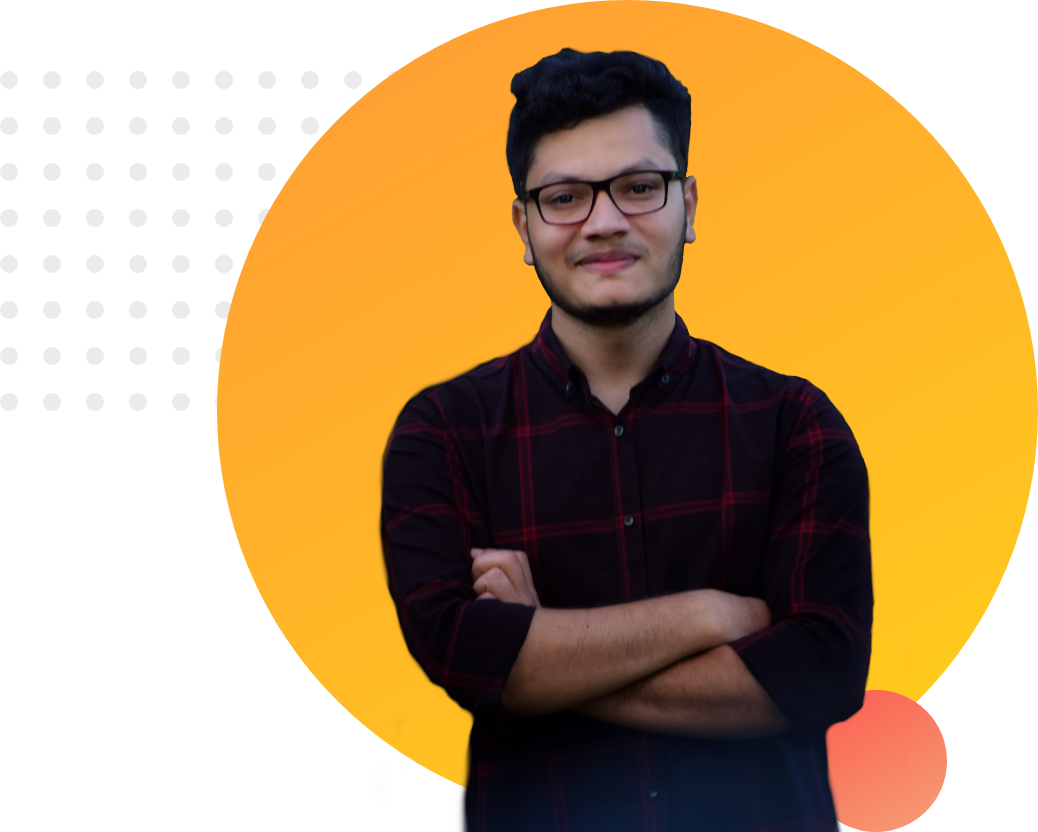
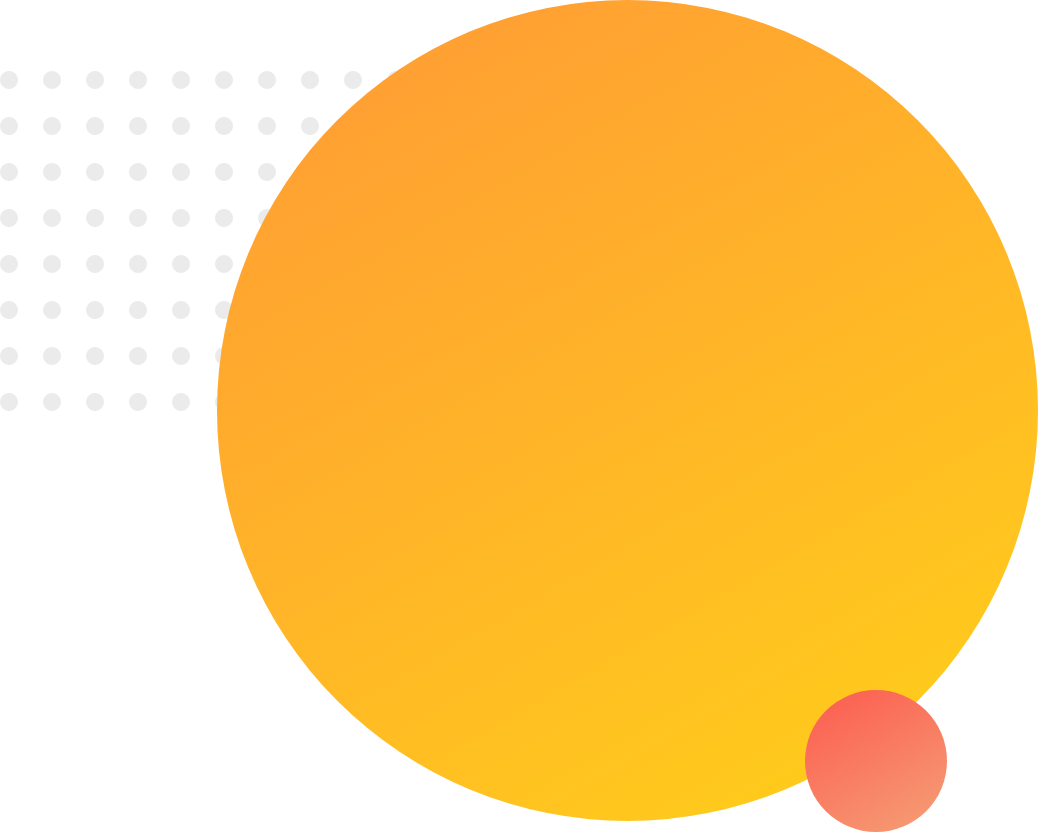
added top part

Changed region(s): [[0.3391, 0.0625, 0.8632, 1.0]]

diff --git a/index.html b/index.html
@@ -1,0 +1,23 @@
+<!DOCTYPE html>
+<html lang="en">
+<head>
+    <meta charset="UTF-8">
+    <meta name="viewport" content="width=device-width, initial-scale=1.0">
+    <title>Munna's website</title>
+    <link href="https://fonts.googleapis.com/css?family=Poppins&display=swap" rel="stylesheet">
+    <link rel="stylesheet" href="style.css">
+</head>
+<body>
+    <section>
+        <div class="half-width">
+            <h1>Welcome to</h1>
+            <h1><span class="highlight">Munna's</span> website</h1>
+            <h3>World-class web developer </h3>
+            <p>Hello I am Munna. I want to be a web developer. I know HTML,CSS and bootstrap designing. I am learing web development with Jhankar vai..He is amaging person. I like him very much.</p>
+        </div>
+        <div class="half-width">
+            <img src="images/1st.png">
+        </div>
+    </section>
+</body>
+</html>

diff --git a/style.css b/style.css
@@ -1,0 +1,19 @@
+body{
+    font-family: 'Poppins', sans-serif;
+}
+
+h1{
+    font-size: 50px;
+}
+.highlight{
+    color: orange;
+}
+.half-width{
+    width: 40%;
+    float: left;
+    margin-left: 5%;
+    padding-left: 2%;
+}
+.half-width img{
+    width: 100%;
+}
